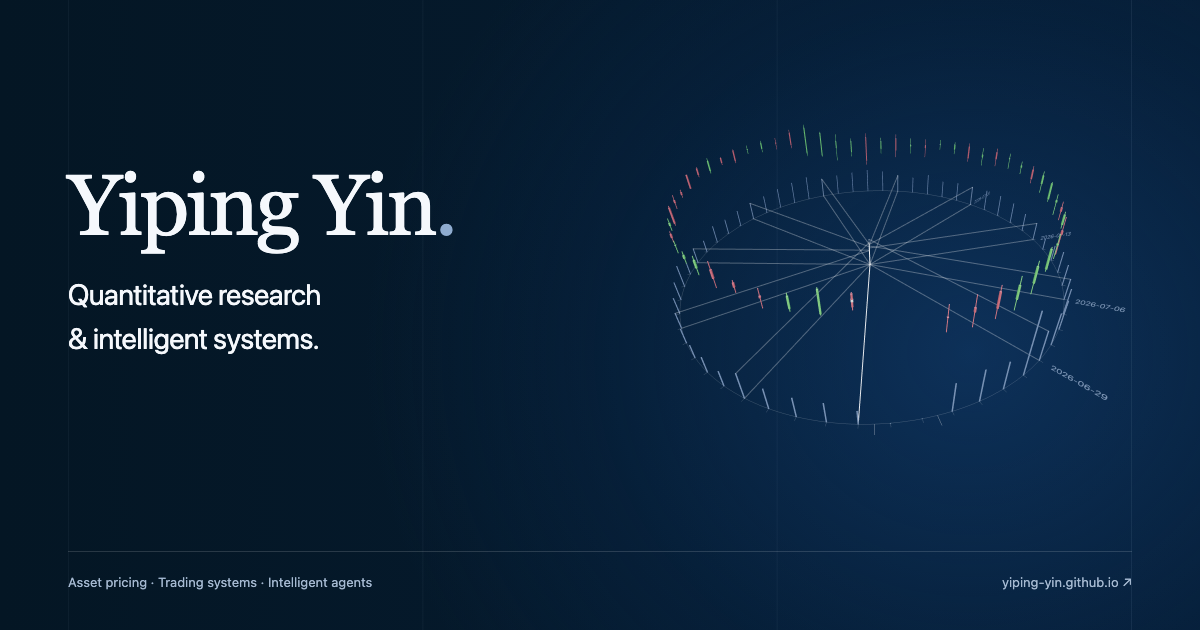
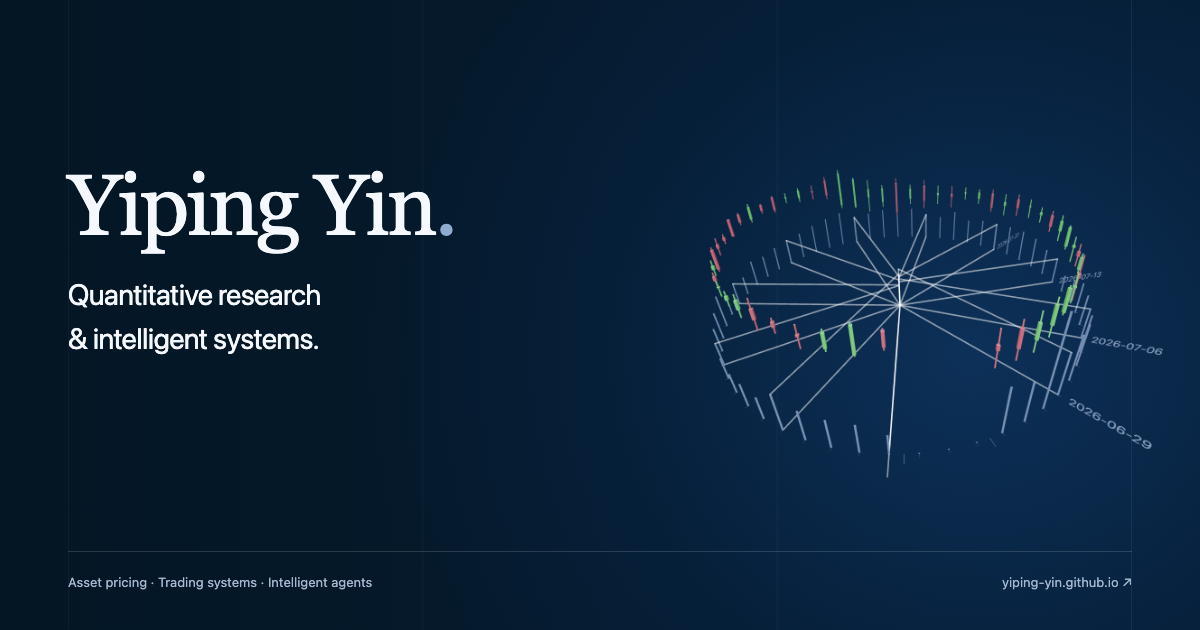
Draw the ring at imc.com's weight: a square box, heavier lines, larger glyphs
The drum was a faithful mechanism rendered as a miniature. imc.com's hero
uses the same eye (13, 8, 4) and the same 75° view, but in a square box,
so the ring fills it; ours sat in a 680×460 landscape box where the
vertical field of view clamped and the ring shrank to the middle. Its
lines were 1 px hairlines at 0.22–0.30, its bodies 7 px tall, its bars
short, its dates 3–10 px, and it wore a rim circle the reference never
had. Measured against the owner's own imc.com/ap screenshot, that was the
whole of the gap; the concept was never the problem.

- The hero box is 620×620 on desktop (a --hero-box token, shrinking with
  the viewport below 1100 px), the canvas square, the caption under it,
  and a soft radial glow sits behind the ring as it does on imc.com.
- VIEW_FOV is 75° again, so a square box gets the reference's framing.
- Blades, pen and cursor are 1.6 CSS px (3.2 device px on a retina
  display); blades at 0.55 alpha.
- Candle bodies are 0.058 wide (1.45 ×), wicks 0.0145, glyphs 1.3 ×
  taller (HEIGHT_SPAN 16.965, so the caption reads ×6.3 vertical), and
  volume bars 1.5 × taller and 1.6 × wider.
- Date labels are 1.5 × the first build; 1.9 × put the near one over
  the box's right edge.
- The rim circle is gone: imc.com's dial is ticks, gap lines and a pen.
- Fallback still re-rendered square (1240×1240); the share card takes
  the square image; cache keys bumped.

Nine of nine in-page checks pass in the new box, with the sway, parallax
[…]

Changed region(s): [[0.555, 0.2714, 0.9867, 0.6635], [0.6167, 0.6032, 0.7708, 0.7238], [0.925, 0.6635, 0.9558, 0.6937]]

diff --git a/assets/site.css b/assets/site.css
@@ -62,7 +62,7 @@ p { margin-bottom: 16px; }
 .page-shell { width: 100%; }
 main { min-width: 0; }
 .hero { position: relative; overflow: hidden; background-color: #041624; background-image: radial-gradient(ellipse 64% 112% at 81% 56%, #103969b8 0%, #082a524d 49%, #04162400 79%), linear-gradient(90deg, #041624 0%, #051a2d 52%, #061c32 100%); color: #fff; }
-.hero-inner { position: relative; display: flex; align-items: center; min-height: 510px; max-width: 1240px; padding: 72px 50px; margin: auto; }
+.hero-inner { --hero-box: 620px; position: relative; display: flex; align-items: center; min-height: calc(var(--hero-box) + 88px); max-width: 1240px; padding: 72px 50px; margin: auto; }
 .hero-inner::before { content: ""; position: absolute; inset: 0 50px; pointer-events: none; border-right: 1px solid #b8d3ed0a; background-image: linear-gradient(to right, #b8d3ed0c .7px, transparent .7px); background-size: 33.3333% 100%; }
 .hero-copy { position: relative; z-index: 2; max-width: 455px; }
 h1 { font: 68px/1.1 Georgia, "Times New Roman", serif; font-weight: 400; letter-spacing: -2px; margin: 0 0 17px; }
@@ -71,8 +71,9 @@ h1 > span { color: #8facd0; }
 .hero-actions { display: flex; align-items: center; flex-wrap: wrap; gap: 28px; margin-top: 29px; }
 .hero-cta { display: inline-flex; align-items: center; gap: 24px; padding: 9px 0; font-size: 13px; font-weight: 500; color: #fff; text-decoration: none; border-bottom: 1px solid #7e98b6; }
 .hero-cta:hover { border-bottom-color: #fff; }
-.hero-visual { position: absolute; margin: 0; width: 680px; height: 460px; top: 22px; right: 0; }
-.market-fallback, #market-canvas { position: absolute; inset: 0; display: block; width: 100%; height: 100%; object-fit: contain; }
+.hero-visual { position: absolute; margin: 0; width: var(--hero-box); height: calc(var(--hero-box) + 44px); top: 22px; right: 0; }
+.hero-visual::before { content: ""; position: absolute; left: -24%; right: -24%; top: -14%; height: calc(100% - 44px); background: radial-gradient(ellipse 48% 40% at 50% 54%, rgba(7, 81, 226, .32) 0%, rgba(7, 81, 226, 0) 100%); pointer-events: none; }
+.market-fallback, #market-canvas { position: absolute; inset: 0; display: block; width: 100%; height: var(--hero-box); object-fit: contain; }
 #market-canvas { touch-action: pan-y; cursor: grab; }
 .market-ready .market-fallback { display: none; }
 .market-caption { position: absolute; left: 0; bottom: 8px; max-width: 100%; margin: 0; font-size: 11.5px; line-height: 1.65; font-weight: 500; letter-spacing: .04em; font-variant-numeric: tabular-nums; white-space: nowrap; color: #8ea8c4; pointer-events: none; transition: opacity .5s ease, transform .5s ease; }
@@ -194,12 +195,13 @@ footer a { color: var(--muted); text-decoration: none; padding: 8px 0; }
   .hero-inner { padding-left: 35px; padding-right: 35px; }
   .hero-inner::before { left: 35px; right: 35px; }
   .hero-copy { max-width: 400px; }
-  .hero-visual { right: 0; width: min(560px, calc(100% - 430px)); }
+  .hero-inner { --hero-box: min(560px, calc(100vw - 500px)); }
+  .hero-visual { right: 0; }
   .recognition-grid,.background-section { column-gap: 40px; }
   .recognition { gap: 13px; }
 }
 @media (max-width: 870px) {
-  .market-caption { bottom: 1px; }
+  .hero-visual { height: calc(var(--hero-box) + 28px); }
   .market-caption > .market-caption-session { display: none; }
 }
 @media (max-width: 850px) {
@@ -207,6 +209,8 @@ footer a { color: var(--muted); text-decoration: none; padding: 8px 0; }
   .hero-inner { display: block; min-height: 0; padding: 48px 35px 300px; }
   .hero-visual { top: auto; right: 35px; bottom: 18px; width: calc(100% - 70px); height: 278px; }
   .market-fallback, #market-canvas { height: calc(100% - 18px); }
+  .market-fallback { transform: scale(1.57); }
+  .market-caption { bottom: 1px; }
   .hero-copy { max-width: none; }
   h1 { font-size: 61px; }
   .hero-focus { font-size: 24px; }
@@ -304,6 +308,7 @@ footer a { color: var(--muted); text-decoration: none; padding: 8px 0; }
   .hero-inner::before { left: 21px; right: 21px; }
   .hero-actions { gap: 12px; }
   .hero-visual { width: calc(100% - 10px); right: 5px; }
+  .market-fallback { transform: scale(1.4); }
   h1 { font-size: 52px; }
   .research-tabs { gap: 8px 18px; }
   .contact-email { font-size: 18px; }

diff --git a/index.html b/index.html
@@ -16,14 +16,14 @@
 <meta property="og:url" content="https://yiping-yin.github.io/">
 <meta property="og:title" content="Yiping Yin — quantitative research and trading">
 <meta property="og:description" content="Market microstructure, asset pricing and multi-agent market simulation at UNSW Sydney. 1st of 253 in the General round and 3rd in the Final technical ranking of Algothon 2026.">
-<meta property="og:image" content="https://yiping-yin.github.io/assets/og-image.png?v=20260908-spiral">
+<meta property="og:image" content="https://yiping-yin.github.io/assets/og-image.png?v=20260911-craft">
 <meta property="og:image:width" content="1200">
 <meta property="og:image:height" content="630">
 <meta property="og:image:alt" content="Yiping Yin — quantitative research and intelligent systems, beside a ring of daily S&amp;P 500 candlesticks read by a fixed pen.">
 <meta name="twitter:card" content="summary_large_image">
 <meta name="twitter:title" content="Yiping Yin — quantitative research and trading">
 <meta name="twitter:description" content="Market microstructure, asset pricing and multi-agent market simulation at UNSW Sydney. 1st of 253 in the General round and 3rd in the Final technical ranking of Algothon 2026.">
-<meta name="twitter:image" content="https://yiping-yin.github.io/assets/og-image.png?v=20260908-spiral">
+<meta name="twitter:image" content="https://yiping-yin.github.io/assets/og-image.png?v=20260911-craft">
 
 <script type="application/ld+json">
 {
@@ -40,7 +40,7 @@
   ]
 }
 </script>
-<link rel="stylesheet" href="assets/site.css?v=pen-and-drum-1">
+<link rel="stylesheet" href="assets/site.css?v=craft-3">
 <script>
   // Light is the default. Honor a saved choice before paint, including when storage is unavailable.
   (function () {
@@ -55,7 +55,7 @@
 <script src="assets/site.js?v=pen-and-drum-1" defer></script>
 <link rel="preconnect" href="https://cdn.jsdelivr.net" crossorigin>
 <script type="importmap">{"imports":{"three":"https://cdn.jsdelivr.net/npm/three@0.169.0/build/three.module.js","three/addons/":"https://cdn.jsdelivr.net/npm/three@0.169.0/examples/jsm/"}}</script>
-<script type="module" src="assets/market-visual.mjs?v=pen-and-drum-8"></script>
+<script type="module" src="assets/market-visual.mjs?v=craft-3"></script>
 </head>
 <body>
 <a class="skip-link" href="#main">Skip to content</a>
@@ -90,9 +90,9 @@
           <div class="hero-actions"><a href="#research" class="hero-cta">Explore my research <span aria-hidden="true">↗</span></a></div>
         </div>
         <figure class="hero-visual" aria-label="A ring of daily S&amp;P 500 candlesticks that advances one session per beat; the newest session sits under a fixed pen; the viewpoint drifts slowly. Fixed snapshot, not live.">
-          <img class="market-fallback" src="assets/market-ring.png?v=20260908-spiral" alt="Static view of a ring of daily candlesticks with volume bars and date labels" width="1360" height="920">
+          <img class="market-fallback" src="assets/market-ring.png?v=20260911-craft" alt="Static view of a ring of daily candlesticks with volume bars and date labels" width="1240" height="1240">
           <canvas id="market-canvas" aria-hidden="true"></canvas>
-          <figcaption class="market-caption is-pending"><span class="market-caption-source">S&amp;P 500 · daily · 2026-03-31 → 2026-09-04 · 52 of 110 sessions · captured 2026-09-06 · not live</span><span class="market-caption-session"><span class="market-caption-date">2026-09-04</span> · O 7750.19 · H 7750.19 · L 7706.12 · C 7718.60 · −0.38 % · ×4.8 vertical</span></figcaption>
+          <figcaption class="market-caption is-pending"><span class="market-caption-source">S&amp;P 500 · daily · 2026-03-31 → 2026-09-04 · 52 of 110 sessions · captured 2026-09-06 · not live</span><span class="market-caption-session"><span class="market-caption-date">2026-09-04</span> · O 7750.19 · H 7750.19 · L 7706.12 · C 7718.60 · −0.38 % · ×6.3 vertical</span></figcaption>
         </figure>
       </div>
     </section>

diff --git a/assets/share-card.html b/assets/share-card.html
@@ -9,7 +9,7 @@
 * { box-sizing: border-box; }
 body { position: relative; overflow: hidden; margin: 0; width: 1200px; height: 630px; padding: 67px 68px; background-color: #041624; background-image: radial-gradient(ellipse 64% 112% at 81% 56%, #103969b8 0%, #082a524d 49%, #04162400 79%), linear-gradient(90deg, #041624 0%, #051a2d 52%, #061c32 100%); color: #f5f8fc; font-family: -apple-system, BlinkMacSystemFont, "Segoe UI", sans-serif; }
 body::before { content: ""; position: absolute; inset: 0 68px; border-right: 1px solid #b8d3ed0a; background: linear-gradient(to right, #b8d3ed0c .7px, transparent .7px) 0 0 / 33.3333% 100%; }
-.hero-visual { position: absolute; margin: 0; width: 710px; height: 460px; right: -25px; top: 45px; }
+.hero-visual { position: absolute; margin: 0; width: 560px; height: 560px; right: 20px; top: 35px; }
 .hero-visual img { position: absolute; display: block; width: 100%; height: 100%; object-fit: contain; }
 .copy { position: relative; z-index: 1; margin-top: 95px; }
 h1 { margin: 0 0 25px; font: 86px/1 Georgia, serif; letter-spacing: -3px; }
@@ -19,7 +19,7 @@ footer { position: absolute; left: 68px; right: 68px; bottom: 40px; border-top: 
 </style>
 </head>
 <body>
-<figure class="hero-visual"><img src="market-ring.png" width="1360" height="920" alt=""></figure>
+<figure class="hero-visual"><img src="market-ring.png" width="1240" height="1240" alt=""></figure>
 <div class="copy"><h1>Yiping Yin<span>.</span></h1><p class="statement">Quantitative research<br>&amp; intelligent systems.</p></div>
 <footer><span>Asset pricing · Trading systems · Intelligent agents</span><span>yiping-yin.github.io ↗</span></footer>
 </body>

diff --git a/README.md b/README.md
@@ -37,9 +37,9 @@ Preview at phone, tablet and desktop widths. Check the CV and report links, keyb
 
 ## Visual assets
 
-The hero visual is a drum of daily candlesticks read by a fixed pen. Each session is placed at the height of its own price, so a rising market lifts the ring as it goes round and the sessions on show spread over a world unit between the lowest and the highest. Candle bodies and wicks sit on an inner ring, volume bars on an outer ring, white blades run from the axis to the volume bar of the first session of each ISO week, and the same weeks carry date labels standing in vertical radial planes (a label fades in as its plane turns to the camera, so nothing reads mirrored). Around them a dial stands still in the world: a rim at the volume ring, one tick per slot, and two lines marking the three-slot gap. The instrument stands on the page itself, with nothing drawn under it: a key light from over the reader's left shoulder, 55° above the horizon, models the faces turned to the reader, and a cold rim light from the far side picks out their edges. The camera dollies in without ever leaving the composition the still was designed as, and then the drum steps one session clockwise per beat — the oldest session dissolving into the gap while the newest is printed under the pen and the nib slides to its close. It stops at the end of the record rather than looping. Hovering a session widens it and swaps the caption's second line; dragging rocks the drum and settles on a tick; the canvas is a slider, so the arrow, Home and End keys step through the sessions and the space bar stops and starts the beat. The composition follows the hero of imc.com; the implementation is this repository's own.
+The hero visual is a drum of daily candlesticks read by a fixed pen. Each session is placed at the height of its own price, so a rising market lifts the ring as it goes round and the sessions on show spread over a world unit between the lowest and the highest. Candle bodies and wicks sit on an inner ring, volume bars on an outer ring, white blades run from the axis to the volume bar of the first session of each ISO week, and the same weeks carry date labels standing in vertical radial planes (a label fades in as its plane turns to the camera, so nothing reads mirrored). Around them a dial stands still in the world: one tick per slot at the volume ring and two lines marking the three-slot gap. The box is square on desktop, as imc.com's is, so the ring fills it at the 75° view the composition was drawn for. The instrument stands on the page itself, with nothing drawn under it: a key light from over the reader's left shoulder, 55° above the horizon, models the faces turned to the reader, and a cold rim light from the far side picks out their edges. The camera dollies in without ever leaving the composition the still was designed as, and then the drum steps one session clockwise per beat — the oldest session dissolving into the gap while the newest is printed under the pen and the nib slides to its close. It stops at the end of the record rather than looping. Hovering a session widens it and swaps the caption's second line; dragging rocks the drum and settles on a tick; the canvas is a slider, so the arrow, Home and End keys step through the sessions and the space bar stops and starts the beat. The composition follows the hero of imc.com; the implementation is this repository's own.
 
-The price series is the S&P 500 index (^GSPC) daily open, high, low, close and volume for 110 NYSE sessions ending 2026-09-04, captured from Yahoo Finance and embedded in `assets/market-data.mjs` alongside its `meta` record. It is illustrative only. To swap it, replace that file with any array of `{ label, open, high, low, close, volume }` rows with an even length of at least 8 and update `meta`. Every figure in the caption — the date range, the session count, the capture date and the ×4.8 vertical exaggeration — is derived from that file and the model's `GLYPH_RATIO` by `captionLines()`, and a test asserts that the copy in `index.html` equals the same function's output for the last session, so the caption cannot drift from the data. The eye is never quite still: it swings 14° either side of the design azimuth every 48 s and leans up to 2° toward the pointer, damped over a quarter of a second so it cannot overshoot, while the pen stays fixed on the dial and the newest session stays under it — only the viewpoint drifts. The scene honours `prefers-reduced-motion` (the drum at the end of the record, fully printed, with no beat, and both the swing and the lean switched off at the exact eye the composition was designed for), remembers where it had got to in `sessionStorage` so a second visit fades up instead of performing, draws every frame the swing needs while the canvas is on screen, and stops rendering while the canvas is offscreen or the page is hidden. Phones get a shorter one-line caption, no date labels, no ticks and no lean, and draw the swing at 30 fps.
+The price series is the S&P 500 index (^GSPC) daily open, high, low, close and volume for 110 NYSE sessions ending 2026-09-04, captured from Yahoo Finance and embedded in `assets/market-data.mjs` alongside its `meta` record. It is illustrative only. To swap it, replace that file with any array of `{ label, open, high, low, close, volume }` rows with an even length of at least 8 and update `meta`. Every figure in the caption — the date range, the session count, the capture date and the ×6.3 vertical exaggeration — is derived from that file and the model's `GLYPH_RATIO` by `captionLines()`, and a test asserts that the copy in `index.html` equals the same function's output for the last session, so the caption cannot drift from the data. The eye is never quite still: it swings 14° either side of the design azimuth every 48 s and leans up to 2° toward the pointer, damped over a quarter of a second so it cannot overshoot, while the pen stays fixed on the dial and the newest session stays under it — only the viewpoint drifts. The scene honours `prefers-reduced-motion` (the drum at the end of the record, fully printed, with no beat, and both the swing and the lean switched off at the exact eye the composition was designed for), remembers where it had got to in `sessionStorage` so a second visit fades up instead of performing, draws every frame the swing needs while the canvas is on screen, and stops rendering while the canvas is offscreen or the page is hidden. Phones get a shorter one-line caption, no date labels, no ticks and no lean, and draw the swing at 30 fps.
 
 Section icons are [Heroicons](https://github.com/tailwindlabs/heroicons), distributed under the MIT license included at `assets/icons/LICENSE.txt`. The Susquehanna competition mark is documented in `assets/algothon-marks.provenance.txt` and identifies the Algothon host.
 
